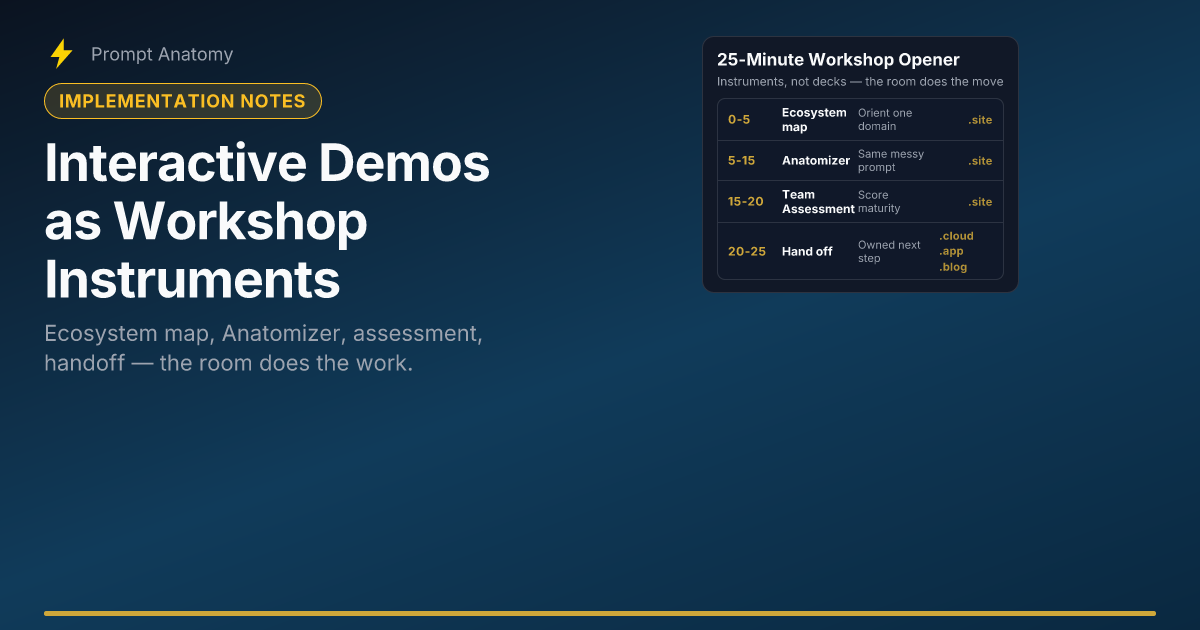
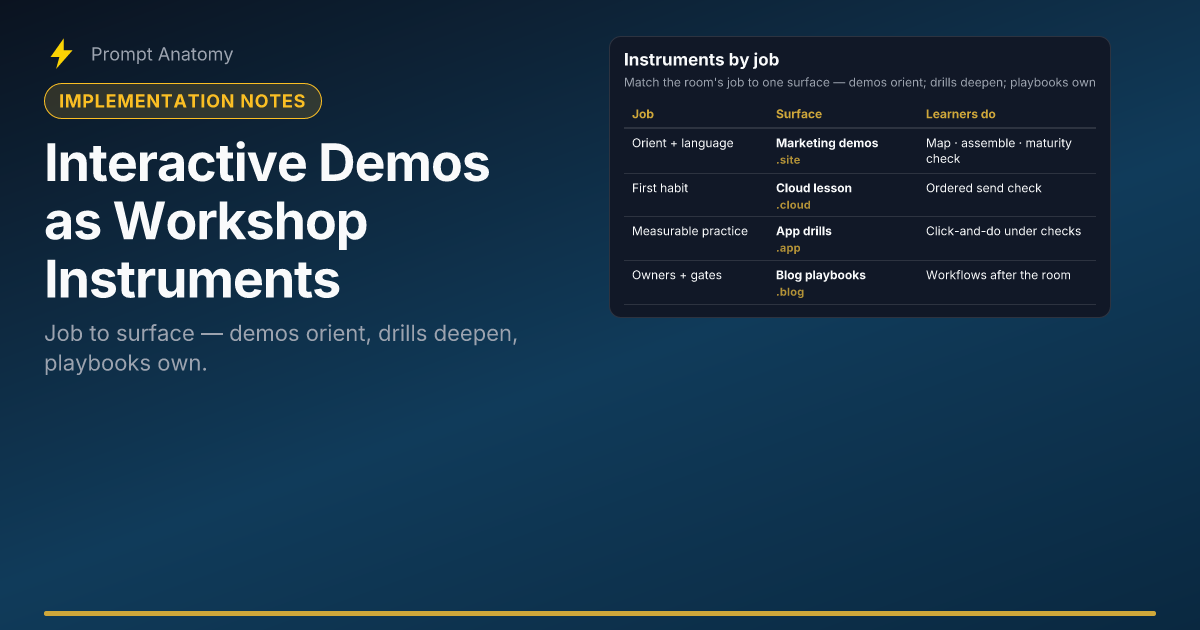
Rebuild workshop-instruments hero as a Job to Surface routing worksheet.
Replace the timed agenda strip with readable surface labels so the diagram teaches instrument choice by room job.

Changed region(s): [[0.4933, 0.0302, 0.925, 0.5127], [0.0308, 0.5127, 0.4317, 0.6032]]

diff --git a/content/articles/interactive-demos-as-workshop-instruments.md b/content/articles/interactive-demos-as-workshop-instruments.md
@@ -15,8 +15,8 @@ faq:
   - question: How long should an interactive workshop opener run?
     answer: About twenty-five minutes—map, assemble one shared prompt, diagnose,
       then hand off to a concrete next step. Longer openers drift back into lecture.
-hero_caption: A twenty-five-minute opener — four named instruments on .site, then
-  a handoff to .cloud, .app, or a .blog playbook.
+hero_caption: Four jobs, four surfaces — pick the instrument for this sitting,
+  then hand off ownership.
 hero_image: images/articles/interactive-demos-as-workshop-instruments/hero.png
 key_takeaway: Open AI workshops with map-build-diagnose instruments, not decks; demos
   orient, drills deepen judgment, playbooks own production.
